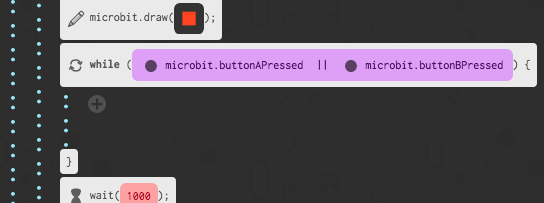
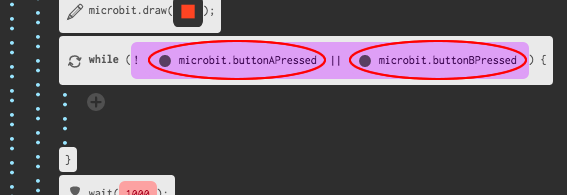
Updates to 'Reaction' project

diff --git a/en-GB/reaction/index.md b/en-GB/reaction/index.md
@@ -10,7 +10,7 @@ project-type: sample
 
 # Introduction { .intro }
 
-You are going to create a game to see which of your friends has the fastest reactions. The game will work by showing an image after a random amount of time - whoever presses their button first once the image appears is the winner.
+You are going to create a 2-player game to see who has the fastest reactions. The game will work by showing an image after a random amount of time - whoever presses their button first is the winner.
 
 # Step 1: Wait for it! { .activity }
 
@@ -76,21 +76,35 @@ Let's add code to wait until a button is pressed.
 
 ## Activity Checklist { .check }
 
-+ After displaying an image, you'll need to wait until someone presses their button. To do this, add a `while` loop from the 'Control' section.
++ After displaying an image, you'll need to wait until someone presses their button.
 
-The `while` loop should be added in just after the `draw` block.
+Another way of saying this is that you'll need to wait as long as button button A __and__ button B have __not__ been pressed.
+
+To do this, add a `while` loop from the 'Control' section. The `while` loop should be added in just after the `draw` block.
 
 ![screenshot](images/reaction-while2.png)
 
-+ Click the `condition` inside your `while` loop and choose `left || right`. (`||` means '__or__').
++ Click the arrow inside your `while` loop and choose `left && right`. (`&&` means '__and__').
 
-![screenshot](images/reaction-while2-or.png)
+![screenshot](images/reaction-while2-and.png)
 
-+ Click on the main code section, and drag `buttonAPressed` and `buttonBPressed` blocks into the `left` and `right` parts of your `while` loop.
++ Click the arrow inside the `left` part of your `while` loop and `! value` (`!` means __not__).
 
-![screenshot](images/reaction-while2-buttons.png)
+![screenshot](images/reaction-while2-notleft.png)
 
-+ Test your project. As there is no code inside your `while` loop, your game should now display an image and then do nothing until either button A __or__ B are pressed.
++ Click on the main code section, and drag a `buttonAPressed` block into on top of the `value` part of your `while` loop.
+
+![screenshot](images/reaction-while2-buttonA.png)
+
++ Repeat the 2 steps above to add `! button B` into the `right` side of your while loop.
+
+![screenshot](images/reaction-while2-buttonB.png)
+
++ You can then add a very short (20ms) delay, so that your `while` loop waits as long as a button hasn't been pressed.
+
+![screenshot](images/reaction-while2-delay.png)
+
++ Test your project. Your game should now display an image and then wait as long as buttons A __and__ B have __not__ been pressed.
 
 # Step 4: Who is the fastest? { .activity }
 
@@ -98,7 +112,7 @@ Let's find out who pressed their button first.
 
 ## Activity Checklist { .check }
 
-+ If button A was pressed, we want to point to player A. To do this, add an `if` block after your `while` loop, and replace `condition` with `buttonAPressed`.
++ If button A was pressed, we want to point to player A. To do this, add an `if` block after your `while` loop, and replace `test` with `buttonAPressed`.
 
 ![screenshot](images/reaction-if-a.png)
 

diff --git a/en-GB/reaction/Reaction - notes.md b/en-GB/reaction/Reaction - notes.md
@@ -5,12 +5,12 @@ title: Reaction — Notes for Club Leaders
 #Introduction:
 In this project, children will make a reaction game. An image will be displayed on the micro:bit after a random amount of time - the first person to press their button is the winner.
 
-Children will make use of all of the coding concepts used in previous projects, as well as using Boolean algebra to wait until a button has been pressed.
+Children will make use of all of the coding concepts used in previous projects, as well as using Boolean operators to wait until a button has been pressed.
 
 #Resources
 For this project, the [Code Kingdoms](http://jumpto.cc/mb-new) microbit editor should be used.
 
-You can find a completed version of this project at [microbit.co.uk/vivzaa](https://www.microbit.co.uk/vivzaa), and the compiled .hex file can be downloaded by clicking the 'Download Project Materials' link for this project, which contains:
+You can find a completed version of this project at [microbit.co.uk/vivzaa](https://www.microbit.co.uk/betchf), and the compiled .hex file can be downloaded by clicking the 'Download Project Materials' link for this project, which contains:
 
 + Reaction.hex
 
@@ -19,7 +19,9 @@ There is also a version of the project with the "Keep score" challenge completed
 + ReactionScore.hex
 
 #Learning Objectives
-+ Boolean algebra and the OR (`||`) operator.
++ Boolean operators:
+	+ AND (`&&`);
+	+ NOT (`!`).
 
 #Challenges
 + "Choose your own image" - changing the image displayed on the micro:bit.

diff --git a/en-GB/reaction/materials.md b/en-GB/reaction/materials.md
@@ -3,13 +3,13 @@ title: Reaction - Materials
 layout: project-materials
 project-resources: 
 volunteer-resources:
-  - url: https://www.microbit.co.uk/vivzaa
+  - url: https://www.microbit.co.uk/betchf
     type: link
-    text: microbit.co.uk/vivzaa
+    text: microbit.co.uk/betchf
     description: online completed project
-  - url: https://www.microbit.co.uk/bvhagj
+  - url: https://www.microbit.co.uk/bwfgzh
     type: link
-    text: microbit.co.uk/bvhagj
+    text: microbit.co.uk/bwfgzh
     description: online completed project, including 'Keep score' challenge
   - url: Reaction.hex
     type: file
